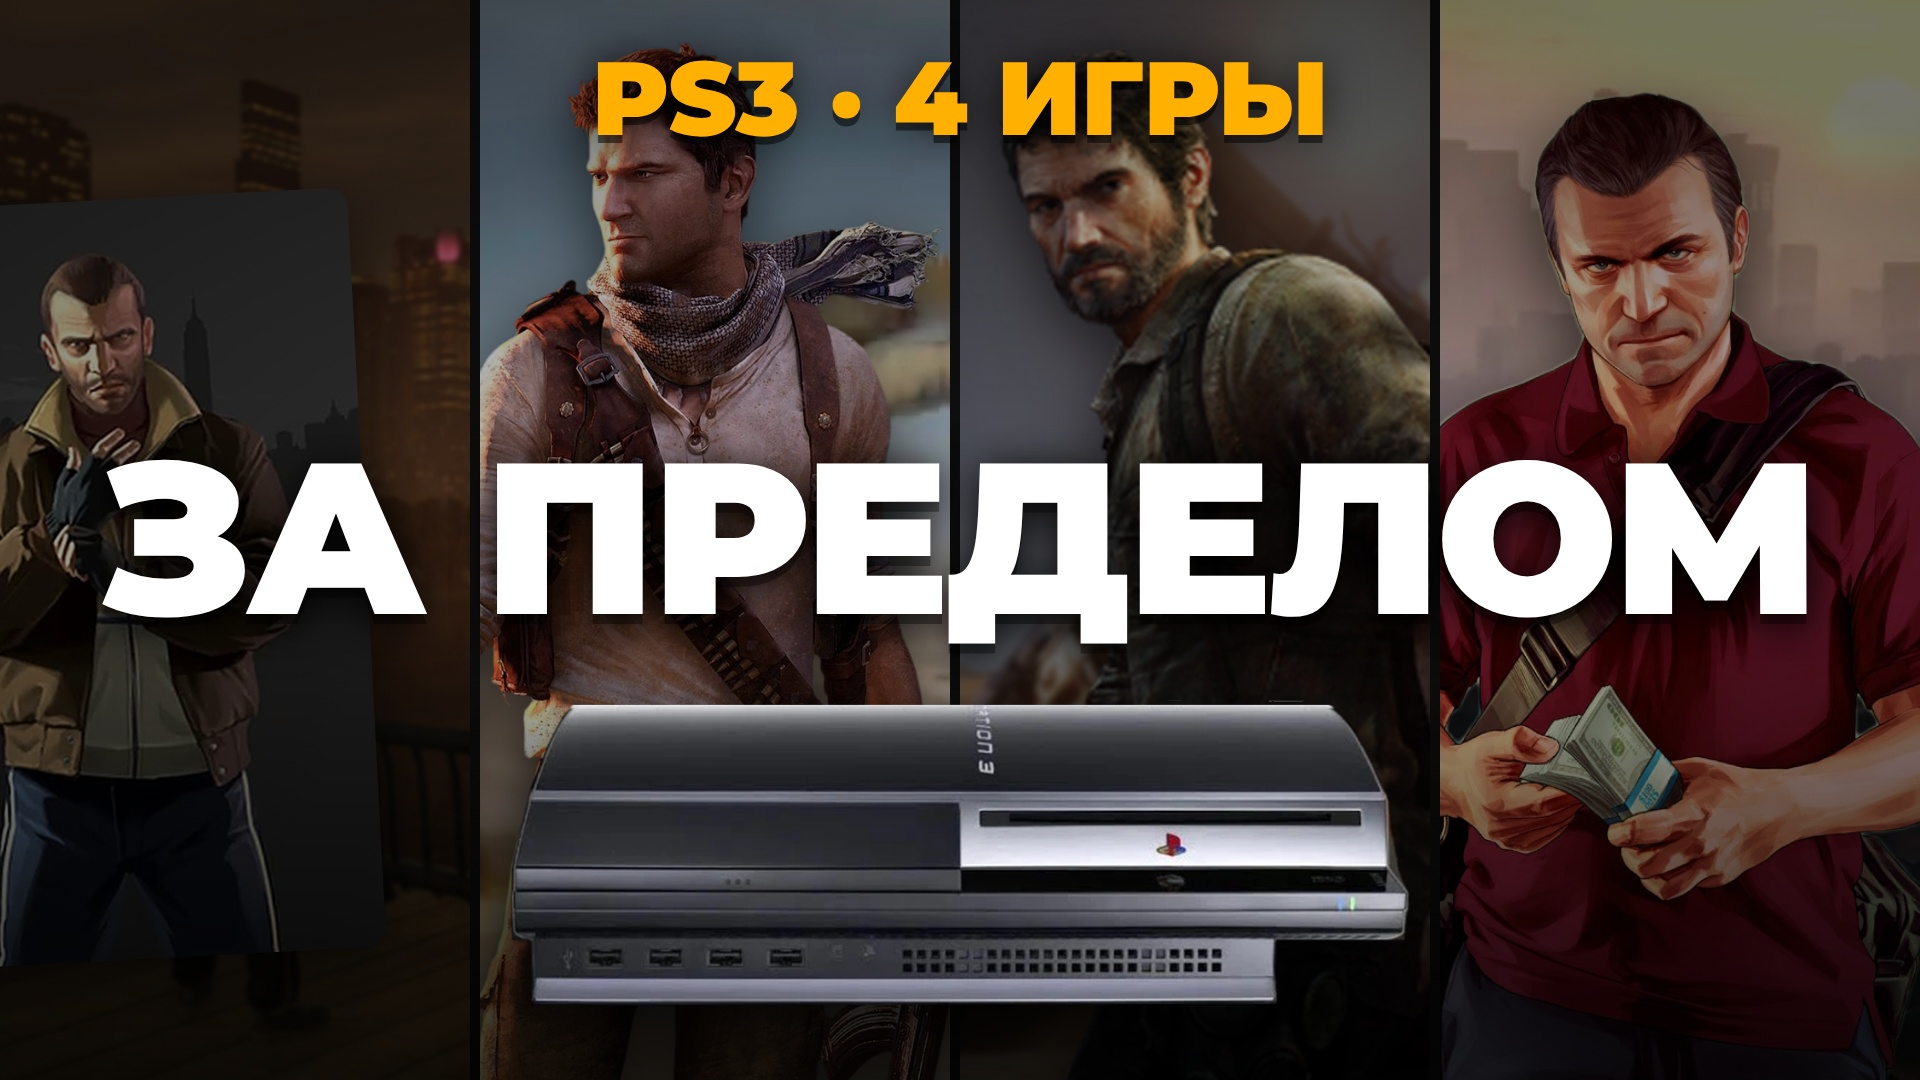
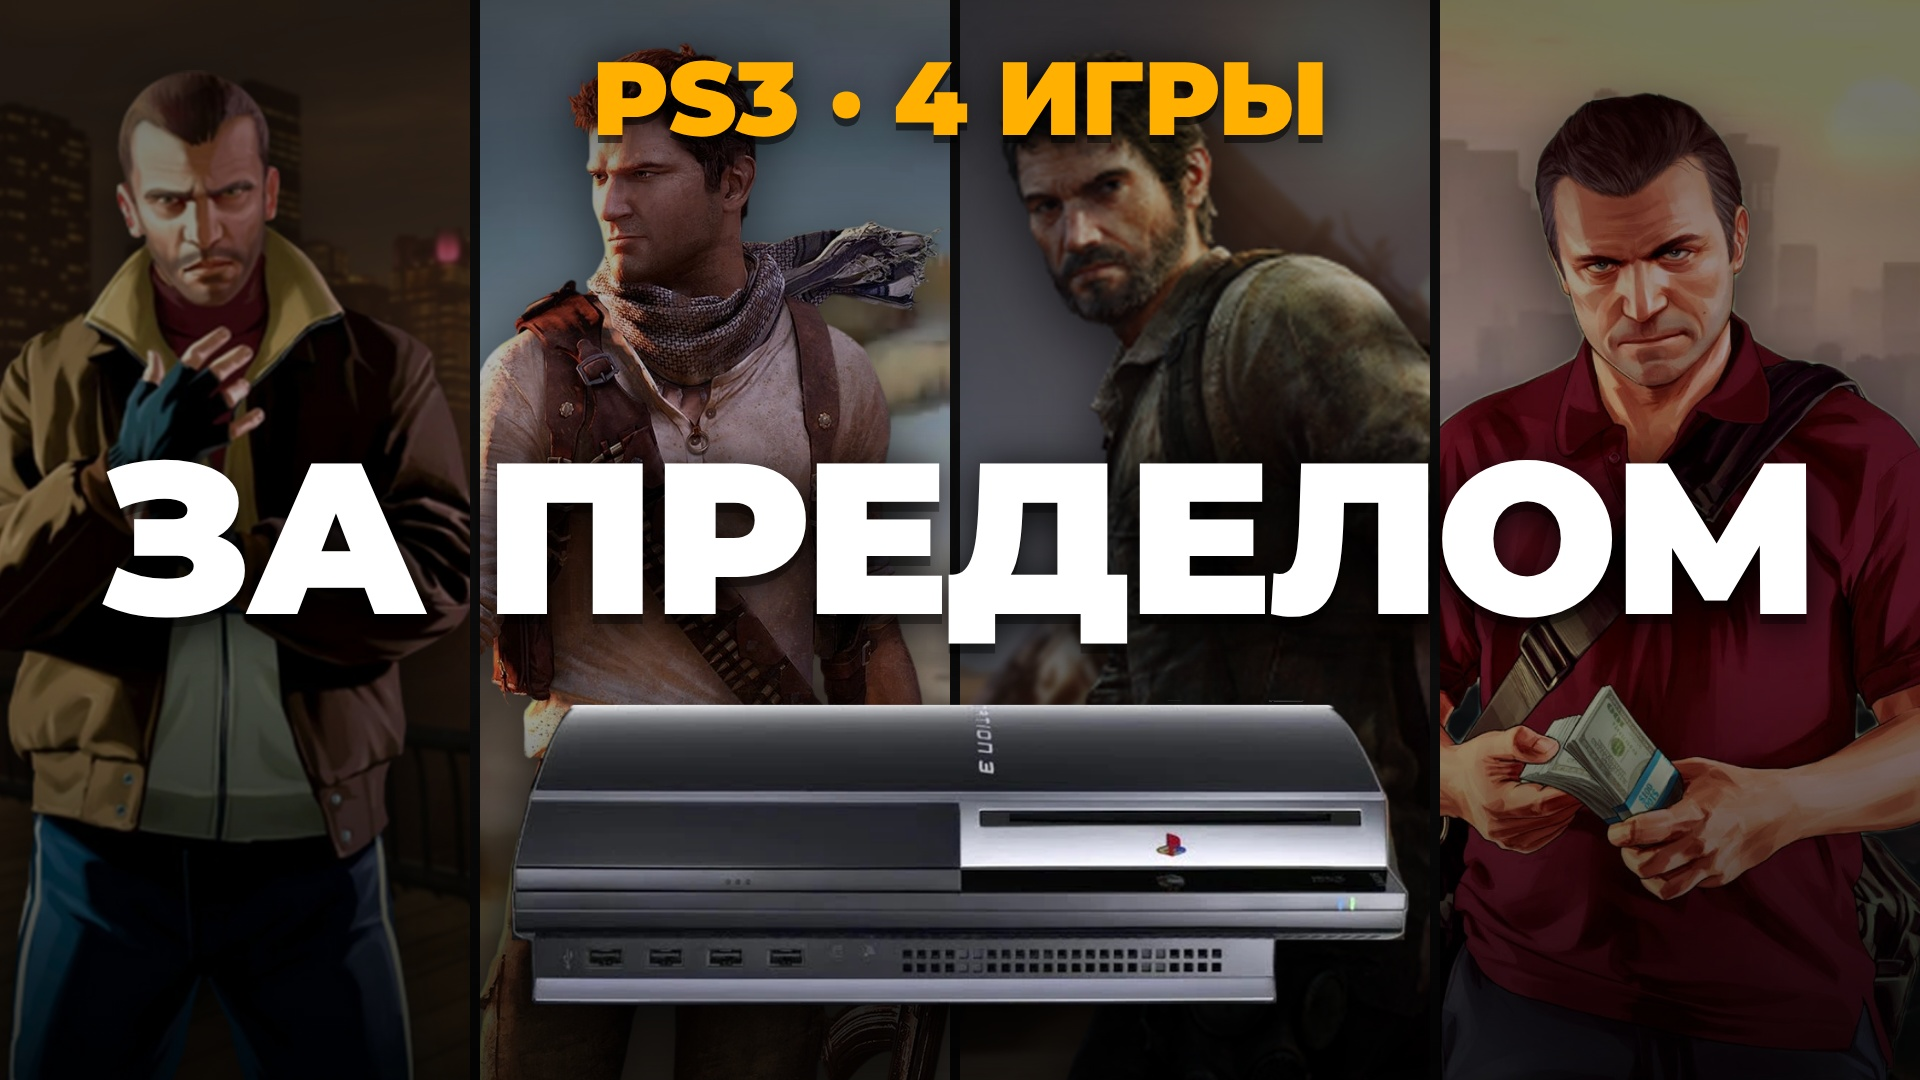
All 4 games thumbnails: new Niko cutout
Claude-Session: https://claude.ai/code/session_01RHFrx85Hg5RpkQEmnVQQfw

Changed region(s): [[0.0, 0.0611, 0.25, 0.9472]]

diff --git a/all4/thumb/thumb.html b/all4/thumb/thumb.html
@@ -11,7 +11,7 @@ html,body{width:1920px;height:1080px;overflow:hidden;background:#111;font-family
 .ps{position:absolute;left:50%;transform:translateX(-50%);filter:drop-shadow(0 40px 40px rgba(0,0,0,.7))}
 .nm{position:absolute;left:0;width:1920px;text-align:center;top:34px;font-weight:900;font-size:104px;color:#ffb000;letter-spacing:-.01em;text-shadow:0 8px 0 rgba(0,0,0,.5),0 0 40px rgba(0,0,0,.7)}
 </style></head><body>
-<div class="p" style="left:0;width:480px"><div class="bg" style="background-image:url(/gta4_ps3/assets/liberty_city.jpg);filter:blur(2px) brightness(.8) saturate(1.2)"></div><img class="ch" src="/gta4_ps3/assets/niko_art.jpg" style="height:760px;left:-140px;top:200px;border-radius:20px;transform:rotate(-3deg)"></div>
+<div class="p" style="left:0;width:480px"><div class="bg" style="background-image:url(/gta4_ps3/assets/liberty_city.jpg);filter:blur(2px) brightness(.8) saturate(1.2)"></div><img class="ch" src="/gta4_ps3/assets/niko_cut.png" style="height:1020px;left:-70px;top:70px"></div>
 <div class="p" style="left:480px;width:480px"><div class="bg" style="background-image:url(/uncharted3/clips/plane/0140.jpg)"></div><img class="ch" src="/uncharted3/assets/drake.png" style="height:1100px;left:-100px;top:40px"></div>
 <div class="p" style="left:960px;width:480px"><div class="bg" style="background-image:url(/gta4_ps3/tlou/assets/uc3_scene.jpg);filter:blur(3px) brightness(.55) saturate(.8)"></div><img class="ch" src="/gta4_ps3/tlou/assets/joel.png" style="height:1150px;left:-170px;top:50px"></div>
 <div class="p" style="left:1440px;width:480px;border:0"><div class="bg" style="background-image:url(/gta5_new/assets/los_santos_haze.jpg)"></div><img class="ch" src="/gta5_new/assets/michael.png" style="height:1150px;left:-150px;top:90px"></div>
